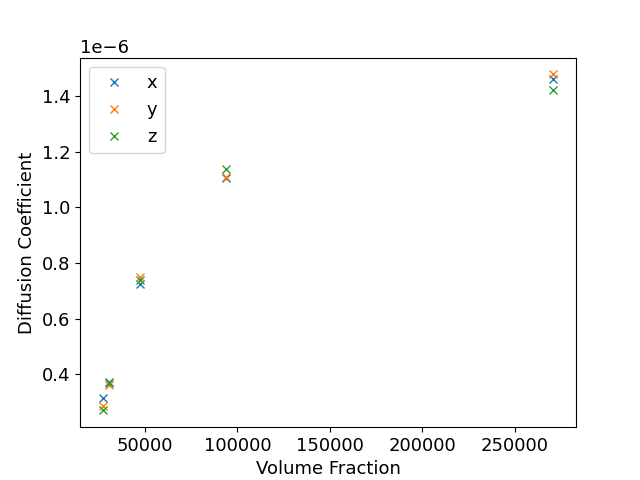
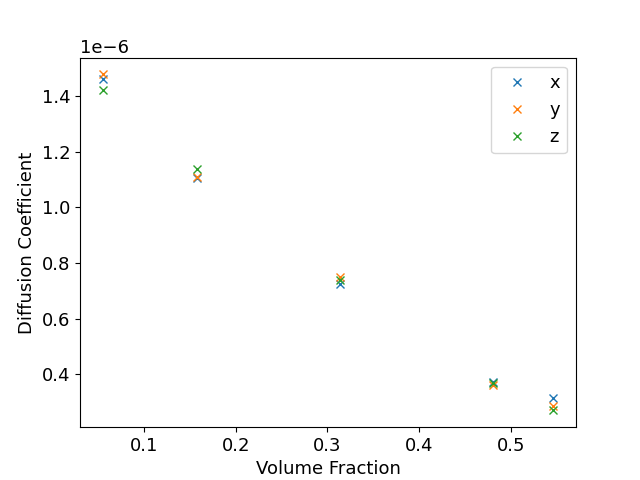
updated rms sample plot

diff --git a/Phase_Structure/Nunchucks/Fixed_Rigidity/diffusion_coeff.py b/Phase_Structure/Nunchucks/Fixed_Rigidity/diffusion_coeff.py
@@ -50,11 +50,11 @@ for i, line in enumerate(log_file):
         break  # got all data, break from for loop
 
     if "variable mix_steps" in line:  # to extract mix_steps (for shrinking)
-        run_num = 0  # counts number of runs
+        run_num_tot = 0  # counts number of runs
         for t in line.split():
             try:
                 mix_steps_values.append(int(t))
-                run_num += 1
+                run_num_tot += 1
             except ValueError:
                 pass
 
@@ -69,8 +69,9 @@ for i, line in enumerate(log_file):
 log_file.close()
 
 tot_mix_time = sum(mix_steps_values)
-run_time = tot_mix_time + run_num * equilibrium_time
+run_time = tot_mix_time + run_num_tot * equilibrium_time
 time_range = np.arange(0, int(run_time), int(dump_interval))
+eq_range = np.arange(0, int(equilibrium_time + dump_interval), int(dump_interval))
 print(
     "N_molecules, run_time, dump_interval = "
     + str((N_molecules, run_time, dump_interval))
@@ -142,8 +143,9 @@ else:
 volume_values = np.full(len(time_range), np.nan)  # new array of NaN
 
 # for ongoing measurements:
-rms_time_values = []
-rms_disp_values = []
+rms_disp_values = np.full((run_num_tot, len(eq_range), dimension_num), np.nan)
+time_origin = 0
+run_num = 0
 
 # for sampled measurements:
 sampled_D_values = np.full((len(mix_steps_values), dimension_num), np.nan)
@@ -210,6 +212,13 @@ for i, time in enumerate(time_range):  # interate over dump files
             com_positions, previous_positions, box_dimensions
         )
 
+    if equilibrium_flag:  # MEASURE ONGOING RMS DISPLACEMENT
+        rms_disp_values[run_num, i - run_origin, :] = rms_displacement(
+            com_positions + extra_displacement,  # takes current values
+            initial_sample,  # reset for each eq run
+            use_vector=DIRECTIONAL_COEFF,
+        )
+
     if time in sampling_times:  # MEASURE SAMPLING POINTS
         print("T = " + str(time) + "/" + str(run_time))
         where_output = np.where(sampling_times == time)
@@ -219,6 +228,8 @@ for i, time in enumerate(time_range):  # interate over dump files
             sampled_vol_values[indices[0]] = box_volume
 
             extra_displacement = np.zeros_like(com_positions)  # reset for each sample
+
+            run_origin = i  # so ongoing measurement starts from zero each time
             equilibrium_flag = True
         else:  # end of sampling period
             # print(extra_displacement) # useful to check you aren't getting silly values/multiple crossings
@@ -229,16 +240,9 @@ for i, time in enumerate(time_range):  # interate over dump files
             )  # initial sample taken from previous iteration in if clause
             sampled_D_values[indices[0], :] = sampled_rms / (6 * equilibrium_time)
             # D value for i-th equillibration period
-            equilibrium_flag = False
 
-    if equilibrium_flag:  # MEASURE ONGOING RMS DISPLACEMENT
-        rms_time_values.append(time)
-        current_rms = rms_displacement(
-            com_positions + extra_displacement,  # takes current values
-            initial_sample,  # reset for each eq run
-            use_vector=DIRECTIONAL_COEFF,
-        )
-        rms_disp_values.append(current_rms)
+            run_num += 1
+            equilibrium_flag = False
 
     previous_positions = com_positions
     # print("T = " + str(time) + "/" + str(run_time))
@@ -247,16 +251,27 @@ for i, time in enumerate(time_range):  # interate over dump files
 # print(sampled_D_values)
 # # NaN values correspond to a misalignment with dump frequency and the ends of each equillibration run
 # print(sampled_vol_values)
+sampled_vol_frac = vol_frac(sampled_vol_values, mol_length, N_molecules)
 
+fig, axs = plt.subplots(nrows=1, ncols=run_num_tot, sharey=True, figsize=(10, 5))
+for n in range(run_num_tot):
+    axs[n].set_title(r"$\phi =$" + "{:.2f}".format(sampled_vol_frac[n]))
+    for j in range(dimension_num):
+        if n == 0:  # for legend
+            axs[n].loglog(eq_range, rms_disp_values[n, :, j], label=axis_labels[j])
+        else:
+            axs[n].loglog(eq_range, rms_disp_values[n, :, j])
 
-plt.plot(rms_time_values, rms_disp_values, "x")
-plt.xlabel("Time (Arbitrary Units)")
-plt.ylabel("RMS displacement")
+axs[int(run_num_tot / 2)].set_xlabel("Time (Arbitrary Units)")
+axs[0].set_ylabel("RMS displacement")
+fig.legend(loc="center right")
 plt.savefig("rms_displacement_runwise.png")
 plt.show()
 
 for i in range(dimension_num):
-    plt.plot(sampled_vol_values, sampled_D_values[:, i], "x", label=axis_labels[i])
+    plt.plot(
+        sampled_vol_frac, sampled_D_values[:, i], "x", label=axis_labels[i],
+    )
 plt.ylabel("Diffusion Coefficient")
 plt.xlabel("Volume Fraction")
 plt.legend()
